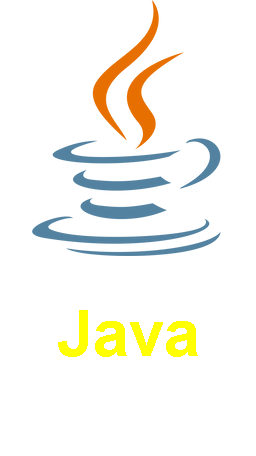
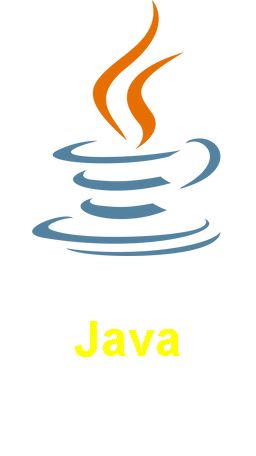
incluindo a minha api para gerar stickers

Changed region(s): [[0.2188, 0.6754, 0.7812, 0.7982]]

diff --git a/src/LanguageContentExtractor.java b/src/LanguageContentExtractor.java
@@ -14,7 +14,7 @@ public class LanguageContentExtractor implements ContentExtractor{
         for(Map<String, String> attribute : list){
             String title = attribute.get("title");
             String urlImage = attribute.get("image");
-            int ranking = Integer.parseInt(attribute.get("ranking"));
+            String ranking = attribute.get("ranking");
             var content = new Content(title, urlImage, ranking);
             contents.add(content);
         }
@@ -30,9 +30,9 @@ public class LanguageContentExtractor implements ContentExtractor{
         for(Map<String, String> attribute : list){
             String title = attribute.get("title");
             String urlImage = attribute.get("image");
-            int ranking = Integer.parseInt(attribute.get("ranking"));
+            String ranking = attribute.get("ranking");
 
-            System.out.print("\u001b[32m" + "[Filme] \u001b[m");
+            System.out.print("\u001b[32m" + "[Linguagem] \u001b[m");
             System.out.println(title);
             System.out.print("\u001b[35m" + "[Imagem] \u001b[m");
             System.out.println(urlImage);

diff --git a/src/App.java b/src/App.java
@@ -20,7 +20,7 @@ public class App {
         //obtendo o body do json da api
         var http = new HttpClientApi();
         String json = http.fetchData(url);
-
+        
         //criando a lista de conteúdo
         List<Content> contents = contentExtractor.contentExtract(json);
 
@@ -30,7 +30,7 @@ public class App {
         // gera as figurinhas
         var generator = new StickerGenerator();
 
-        for(int i = 0; i <= contents.size(); i++){
+        for(int i = 0; i < contents.size(); i++){
             Content content = contents.get(i);
             InputStream inputStream = new URL(content.getUrlImage()).openStream();
             String fileName = content.getTitle() + ".png";

diff --git a/src/Content.java b/src/Content.java
@@ -2,10 +2,10 @@ public class Content {
     
     private final String title;
     private final String urlImage;
-    private final int ranking;
+    private final String ranking;
     
     
-    public Content(String title, String urlImage, int ranking) {
+    public Content(String title, String urlImage, String ranking) {
         this.title = title;
         this.urlImage = urlImage;
         this.ranking = ranking;
@@ -19,7 +19,7 @@ public class Content {
         return urlImage;
     }
 
-    public int getRanking(){
+    public String getRanking(){
         return ranking;
     }
     

diff --git a/src/ImdbContentExtractor.java b/src/ImdbContentExtractor.java
@@ -15,7 +15,7 @@ public class ImdbContentExtractor implements ContentExtractor{
         for(Map<String, String> attribute : list){
             String title = attribute.get("title");
             String urlImage = attribute.get("image");
-            int rating = Integer.parseInt(attribute.get("imDbRating"));
+            String rating = attribute.get("imDbRating");
             var content = new Content(title, urlImage, rating);
             contents.add(content);
         }

diff --git a/src/NasaContentExtractor.java b/src/NasaContentExtractor.java
@@ -14,7 +14,7 @@ public class NasaContentExtractor implements ContentExtractor{
         for(Map<String, String> attribute : list){
             String title = attribute.get("title");
             String urlImage = attribute.get("url");
-            var content = new Content(title, urlImage, 1);
+            var content = new Content(title, urlImage, "1");
             contents.add(content);
         }
 

diff --git a/src/API.java b/src/API.java
@@ -2,7 +2,7 @@ public enum API {
     
     NASA("https://api.mocki.io/v2/549a5d8b/NASA-APOD-JamesWebbSpaceTelescope", "NASA"), 
     IMDB("https://api.mocki.io/v2/549a5d8b", "IMDB"),
-    LANGUAGE("http://localhost:8080/linguagens", "LANGUAGE"); 
+    LANGUAGE("https://alura-imersao-api.herokuapp.com/linguagens", "LANGUAGE"); 
 
     private String url;
     private String name;

diff --git a/src/StickerGenerator.java b/src/StickerGenerator.java
@@ -27,7 +27,7 @@ public class StickerGenerator {
         graphics.drawImage(originalImage, 0, 0, null);
 
         //configurar a fonte
-        var font = new Font(Font.SANS_SERIF, Font.BOLD, width - 30);
+        var font = new Font(Font.SANS_SERIF, Font.BOLD, 48);
         graphics.setColor(Color.yellow);
         graphics.setFont(font);
 
